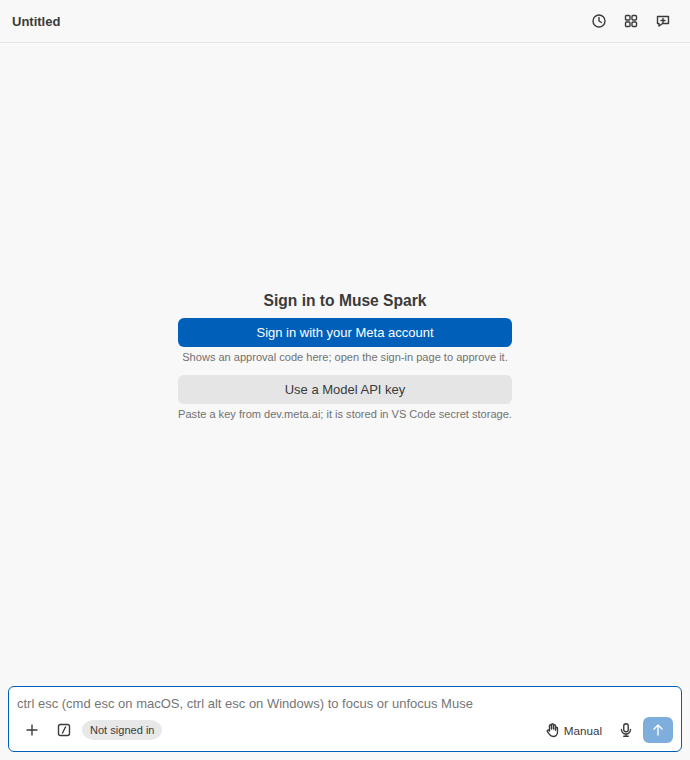
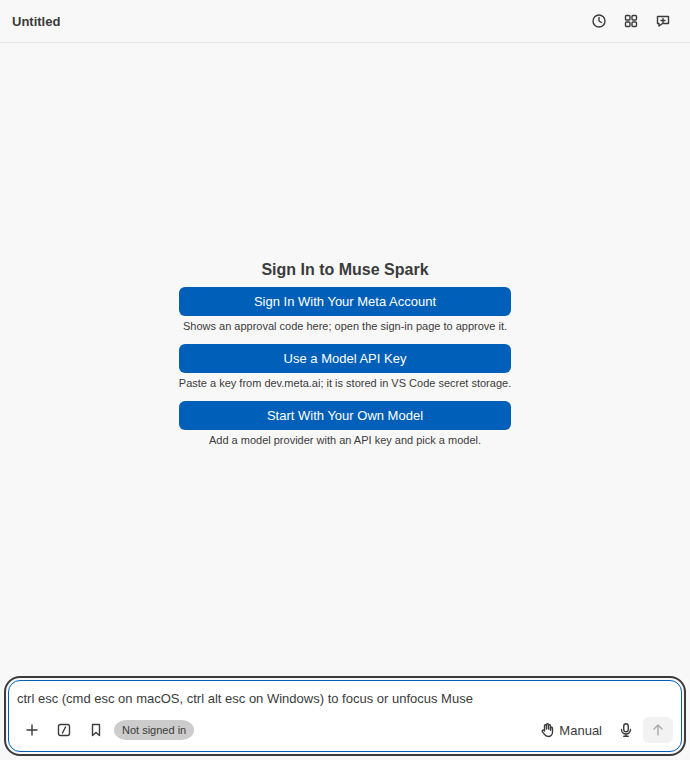
fix(walkthrough): take again the other two pictures; sign-in shows its third choice
The Get Started walkthrough's welcome.png and sign-in.png had no logo but
were from an older panel, and sign-in.png showed two choices while the last
page, which uses the same picture, describes "the first-run screen's third
choice: Start with your own model".

- welcome.png: the harness scene `tools` from this branch's production
  build (a finished turn with its folded steps, the reply and the composer).
- sign-in.png: the harness scene `signin`, the first-run screen with its
  three choices. sign-in.md's picture text and its first line now say that
  the third button is for your own model.

Both from the Kubuntu rig (Chrome 150.0.7871.186, 690 by 760, light theme),
re-encoded without loss (decoded pixels compared, identical): welcome.png
20,306 B to 21,183 B, sign-in.png 22,112 B to 27,395 B. Each was looked at
once. CHANGELOG.md and docs/certification/release-0182.md say so.

diff --git a/docs/certification/release-0182.md b/docs/certification/release-0182.md
@@ -28,8 +28,9 @@ screenshots, and at 1:21 PM how that could happen "if we are looking at over
   hashes of the component audit, the panelmark records, the identity-rewrite
   record of 2026-10-11 (documents only, kept on the lead's word) and the
   version.
-- Added on this branch: two more pictures taken again, and the removal of
-  the screenshot comparison from CI, each below. No test was added.
+- Added on this branch: the walkthrough's four pictures taken again, and
+  the removal of the screenshot comparison from CI, each below. No test was
+  added.
 - The mark's way here: first prepared as 0.18.1 on `release/0.18.1`
   (`111afdfa1d`, cut from the release train `int/train-1011` at
   `07f7aa69f`) before the provider hotfix took that number.
@@ -59,7 +60,7 @@ files were also read as text and drawn in Chrome 150 on the rig.
 | Pictures                                                                                                                                                                                                                                                   | Who receives them                                              | Result                                                                                                                                                                      |
 | ---------------------------------------------------------------------------------------------------------------------------------------------------------------------------------------------------------------------------------------------------------- | -------------------------------------------------------------- | --------------------------------------------------------------------------------------------------------------------------------------------------------------------------- |
 | `resources/walkthrough/open.png`, `chat.png`                                                                                                                                                                                                               | Everyone who installs the extension (the Get Started pages)    | **Both showed Meta's logo** beside "Muse Spark". Taken again (next section)                                                                                                 |
-| `resources/walkthrough/welcome.png`, `sign-in.png`                                                                                                                                                                                                         | The same                                                       | No logo: a finished turn; the sign-in screen                                                                                                                                |
+| `resources/walkthrough/welcome.png`, `sign-in.png`                                                                                                                                                                                                         | The same                                                       | No logo, but both from an older panel; taken again as well (next section)                                                                                                   |
 | `media/readme/modes.png`, `palette.png`, `slash-commands.png`, `voice.png`                                                                                                                                                                                 | Readers of the README on GitHub, the Marketplace and Open VSX  | Our mark, the blue squiggled "m" (taken again on the train)                                                                                                                 |
 | `media/readme/banner.png`                                                                                                                                                                                                                                  | The same, and npm                                              | Our mark                                                                                                                                                                    |
 | `media/readme/agents.png`, `approval.png`, `deterministic-report.png`, `help.png`, `history.png`, `languages.png`, `open-question.png`, `paid.png`, `paid-always.png`, `question.png`, `quote.png`, `resources.png`, `rewind.png`, `turn.png`, `usage.png` | The same                                                       | No logo. In `help`, `history`, `languages` and `usage` a dialog covers the place where the empty screen draws its mark; the others show a conversation, which draws no mark |
@@ -78,25 +79,33 @@ Not looked at: the 754 pictures under `docs/certification/`. They are the
 evidence of earlier milestones, neither package ships them and no README
 shows them; many of them show the panel as it was, Meta's logo included.
 
-Seen on the way and not part of this release: `resources/walkthrough/own-model.md`
-shows `sign-in.png` under a description of "the first-run screen's third
-choice", which that picture does not show; `welcome.png` and `sign-in.png`
-are from an older build of the panel.
+## The walkthrough's four pictures, taken again
 
-## The two walkthrough pictures, taken again
-
-Both from the production build of this branch on the Kubuntu rig (Chrome
+All from the production build of this branch on the Kubuntu rig (Chrome
 150.0.7871.186, 690 by 760, light theme), then re-encoded without loss
 (`optipng -o7 -strip all`; the decoded pixels were compared and are
-identical):
+identical), so that the extension package stays under its cap:
 
-| File                             | Before   | After    | What it is now                                                                                                  |
-| -------------------------------- | -------- | -------- | --------------------------------------------------------------------------------------------------------------- |
-| `resources/walkthrough/open.png` | 44,833 B | 44,039 B | The harness scene `empty` (`node scripts/harness-shots.mjs empty --theme=light`)                                |
-| `resources/walkthrough/chat.png` | 39,823 B | 42,356 B | The pixels of `media/readme/palette.png` as the train took it again (the same scene, the same size), re-encoded |
+| File                                | Before   | After    | What it is now                                                                                                  |
+| ----------------------------------- | -------- | -------- | --------------------------------------------------------------------------------------------------------------- |
+| `resources/walkthrough/open.png`    | 44,833 B | 44,039 B | The harness scene `empty` (`node scripts/harness-shots.mjs empty --theme=light`)                                |
+| `resources/walkthrough/chat.png`    | 39,823 B | 42,356 B | The pixels of `media/readme/palette.png` as the train took it again (the same scene, the same size), re-encoded |
+| `resources/walkthrough/welcome.png` | 20,306 B | 21,183 B | The harness scene `tools`: a finished turn with its folded steps, the reply and the composer                    |
+| `resources/walkthrough/sign-in.png` | 22,112 B | 27,395 B | The harness scene `signin`: the first-run screen with its three choices                                         |
+
+The first two showed Meta's logo. The other two had no logo and were from
+an older panel (the lead's word, 2:22 PM PT, to take them again in this
+release): `sign-in.png` showed two choices, while the walkthrough's last
+page, which uses the same picture, describes "the first-run screen's third
+choice: Start with your own model". The picture now shows all three, and
+the sign-in page's own line says so. Each new picture was looked at once.
+Left as it is and reported: the panel writes its three buttons in title
+case ("Start With Your Own Model"), the walkthrough's text in sentence case.
 
[5 lines of base64/hex data omitted]
 
 ## The one look at the changed screen
 
@@ -192,8 +201,9 @@ The extension package had 9,268 B of room under its cap on 0.18.1
 (3,779,532 of 3,788,800 B, hosted). The rig cannot pack the universal
 package (it has no arm64 helper), so the files the package ships were
 compared between the two builds, compressed as a package compresses them:
-this branch is about 8.3 KB smaller. The two pictures add 2.3 KB, the notes
-0.6 KB; What's New's content is 10.7 KB smaller, because its window of two
+this branch came out about 8.3 KB smaller with the first two pictures, and
+the other two add 6.2 KB to that, so about 2 KB smaller in all. The first
+two pictures add 2.3 KB, the notes 0.6 KB; What's New's content is 10.7 KB smaller, because its window of two
 releases now holds 0.18.2 and 0.18.1 and no longer 0.18.0's long notes
 (they stay one link away, in the changelog). The hosted package job
 measures the real file.

diff --git a/resources/walkthrough/sign-in.md b/resources/walkthrough/sign-in.md
@@ -1,6 +1,6 @@
-![The sign-in gate: Sign in with your Meta account, which shows an approval code, or Use a Model API key](sign-in.png)
+![The sign-in gate: Sign in with your Meta account, which shows an approval code, Use a Model API key, or Start with your own model](sign-in.png)
 
-**Two ways in, never mixed.**
+**Two ways in with Meta, never mixed. The third button is for your own model: see the last step.**
 
 - **Sign in with your Meta account** shows an approval code in the panel: open the sign-in page in your browser and approve it. Work is billed to your Muse subscription. If the Muse Code CLI is missing, **Install Muse Code** first shows Meta's install command, runs it in a terminal and offers sign-in when the CLI appears.
 - **Use a Model API key** takes a key from dev.meta.ai, keeps it in VS Code's secret storage and runs the extension's own tools, pay as you go. The key is never handed to the CLI.

diff --git a/CHANGELOG.md b/CHANGELOG.md
@@ -118,8 +118,10 @@ happened, not what was planned; superseded entries are kept.
 - The chat panel's empty screen shows the extension's own mark instead of
   Meta's logo, in the same place and at the same size. The mark is blue in
   ordinary themes and takes the text colour in high-contrast themes.
-- The Get Started walkthrough's two pictures that still showed Meta's logo
-  (the empty panel and the actions palette) were taken again.
+- The Get Started walkthrough's four pictures were taken again. Two still
+  showed Meta's logo (the empty panel and the actions palette); the other
+  two were from an older panel, and the sign-in picture did not show the
+  third choice, Start with your own model, that the last page describes.
 
 ### Documentation
 
